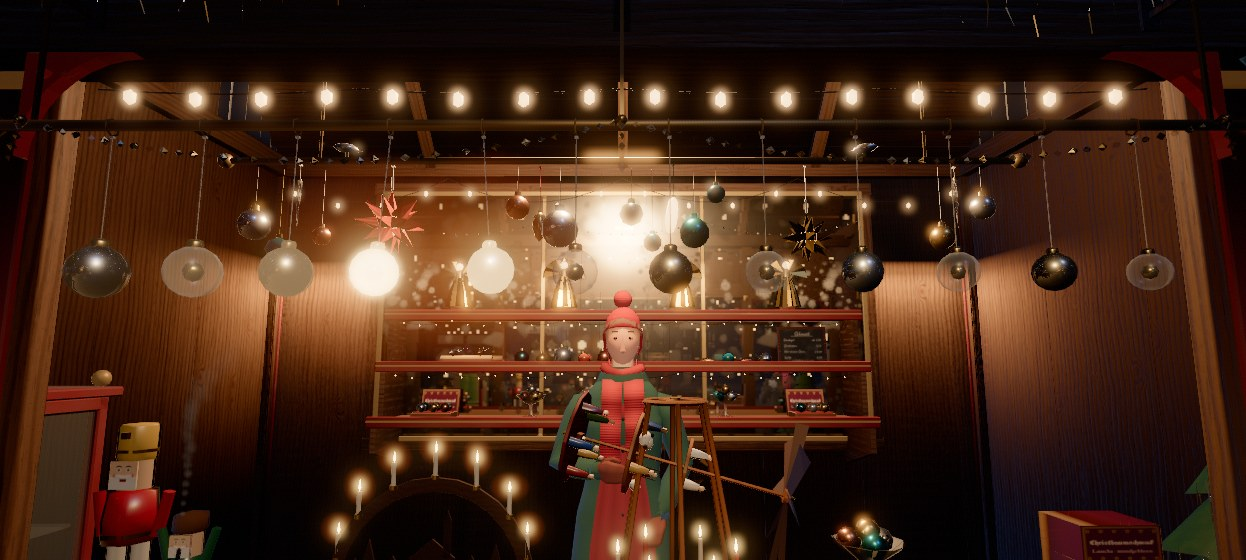
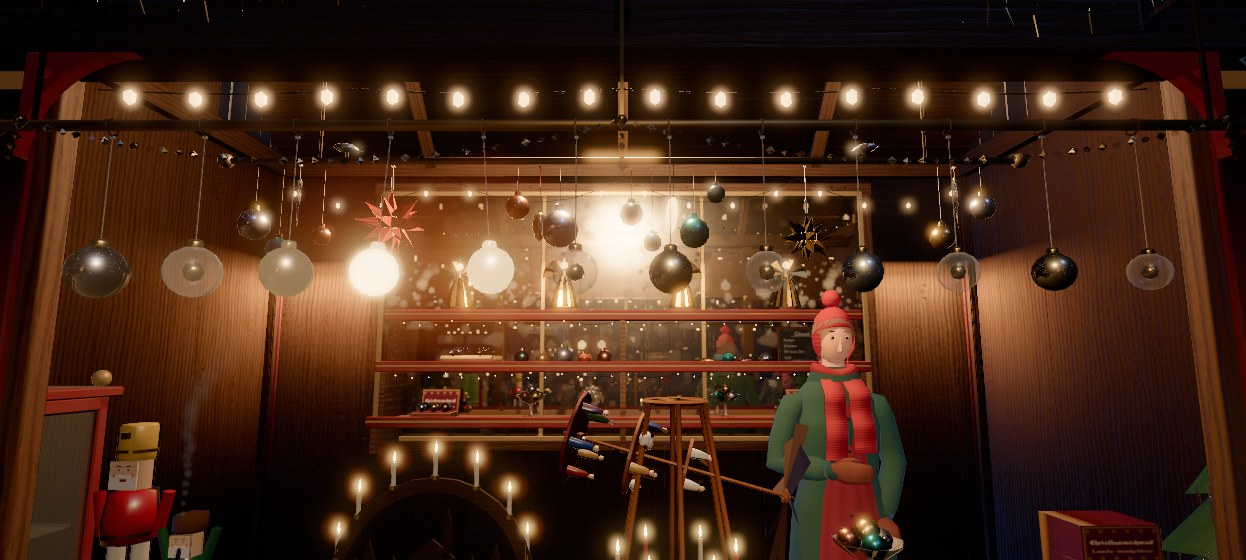
Ornament shop vendor stands beside the candle pyramid, not behind it; round 9 judge notes
Claude-Session: https://claude.ai/code/session_01KJfU3a1ZNRu682uWq35pyk

Changed region(s): [[0.5795, 0.5161, 0.7319, 1.0], [0.427, 0.5161, 0.5795, 1.0], [0.549, 0.5768, 0.61, 0.6375]]

diff --git a/blender/people/crowd_plan.py b/blender/people/crowd_plan.py
@@ -497,6 +497,10 @@ def main():
             continue
         fig, coat, scarf, hat, clip = DECO_LOOK[sid]
         sv = PL.slot(sid, "slot_vendor", [0, 0.13, 0.03])
+        if sid == "deco-schmuck":
+            # stand right of the candle pyramid (slot_pyramid x = 0.12), not behind it, so the
+            # harmonica close-up sees the pyramid and the shelves (market owner, round 10)
+            sv = [sv[0] + 0.95, sv[1], sv[2]]
         w = PL.stall_pt(sid, (sv[0], sv[2]))
         lite_only = sid != "deco-schmuck"      # the ornament shop is a stop with a close view; the rest is scenery
         e = dict(id=f"vendor_{sid}", kind="vendor", stall=sid, slot="slot_vendor",

diff --git a/review/round-9/engineer/JUDGES.md b/review/round-9/engineer/JUDGES.md
@@ -1,0 +1,12 @@
+# Round 9 engineer: judges (pass 2)
+
+## Judge 1: Improve
+
+- Failed: Screenshots show each moment at its peak. The harmonica frame shows one bauble glowing and dive_4 shows a fisheye inside-glass view with snow. But schwib_3_light_wave hardly differs from schwib_4_settled: bulbs and bloom are a little brighter, and no warm band about 8 m wide is visible lying across the cobbles at the stalls as claimed. The wave still does not read in a still frame.
+- Failed: Work is committed. The builder says src changes, smoke.mjs, NOTES.md, logs and screenshots are all uncommitted, so nothing reaches Pages until the parent session commits them.
+- Failed: Smoke log matches the test file on disk. The builder edited smoke.mjs after the run started (deleted the unused skip helper and renamed the wave check), so the log is not a run of the exact file on disk. The edits look harmless but should be re-run.
+- Fix: Make the Schwibbogen light wave visible in a still frame. schwib_3_light_wave.jpg looks almost the same as schwib_4_settled.jpg, with no warm band visible on the cobbles. Make the band clearly brighter than the cobbles around it (or the dimmed market around it darker), and retake the screenshot at a moment when the band is plainly visible on the square between the camera and the stalls.
+- Fix: Re-run the full smoke test against the final tests/smoke.mjs so the log matches the file on disk, including the renamed wave-frame check.
+- Fix: Have the parent session commit all round-9 work: src/shop/lightWave.js, schmuck.js, wurst.js, grillSausages.js, the plate.js deletion, smoke.mjs, NOTES.md, logs, screenshots and the pass1/ renames.
+- Fix: Make the ground band and the grill cut less fragile. Select the band's ground materials by a tag or extras flag instead of name patterns (cobble*, setts*, granite_bands, puddle*), and have the load fail loudly (console warn plus a smoke check) if the sausages_grill mesh does not split into exactly 10 pieces.
+- Fix: Mac to run npm run perf on a real GPU to confirm the draw counts, the per-frame mirror cost and the dive cube capture.

diff --git a/review/round-9/architect/JUDGES.md b/review/round-9/architect/JUDGES.md
@@ -1,0 +1,7 @@
+# Round 9 architect: judges (pass 1)
+
+## Judge 1: Ship
+
+
+## Judge 2: Ship
+
